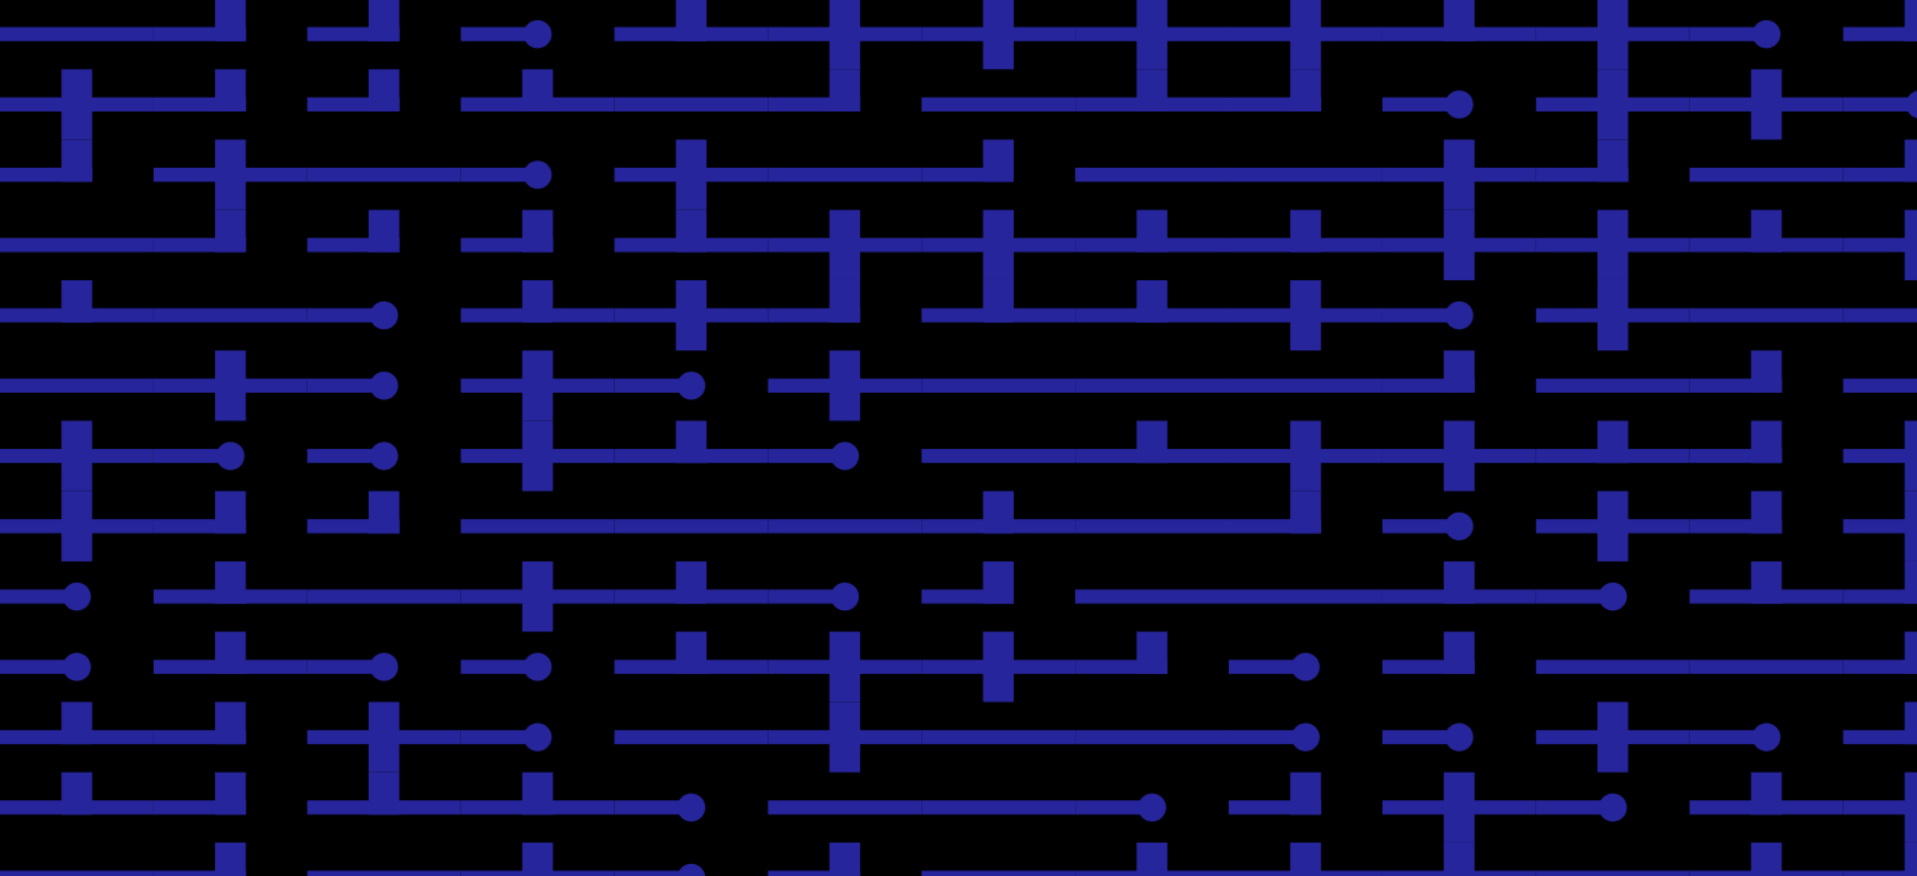
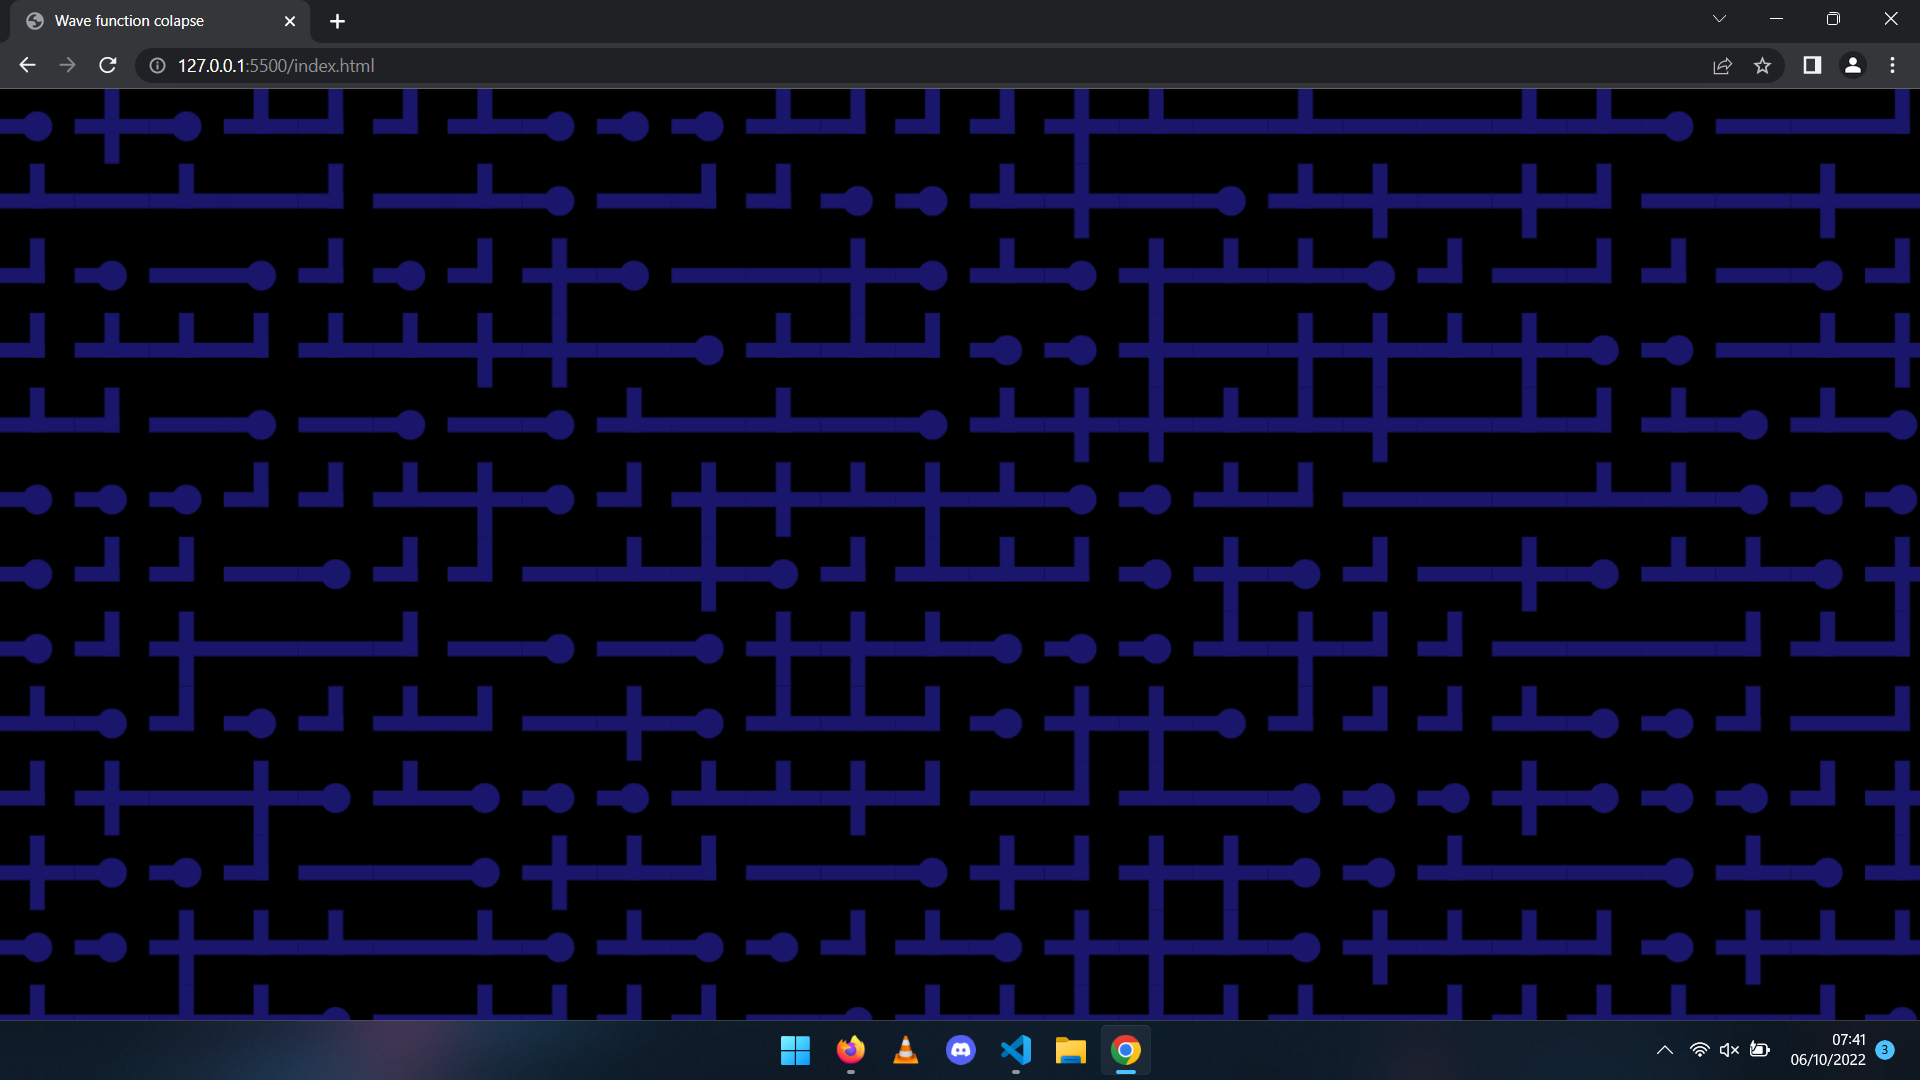
modif grid tilewidth=tileheight

diff --git a/script.js b/script.js
@@ -1,7 +1,7 @@
 const WIDTH = window.innerWidth;
 const HEIGHT = window.innerHeight;
-const TITLE_WIDTH = 0.08*WIDTH;
 const TITLE_HEIGHT = 0.08*HEIGHT;
+const TITLE_WIDTH = TITLE_HEIGHT;
 const COLOR = "#19166b"
 
 
